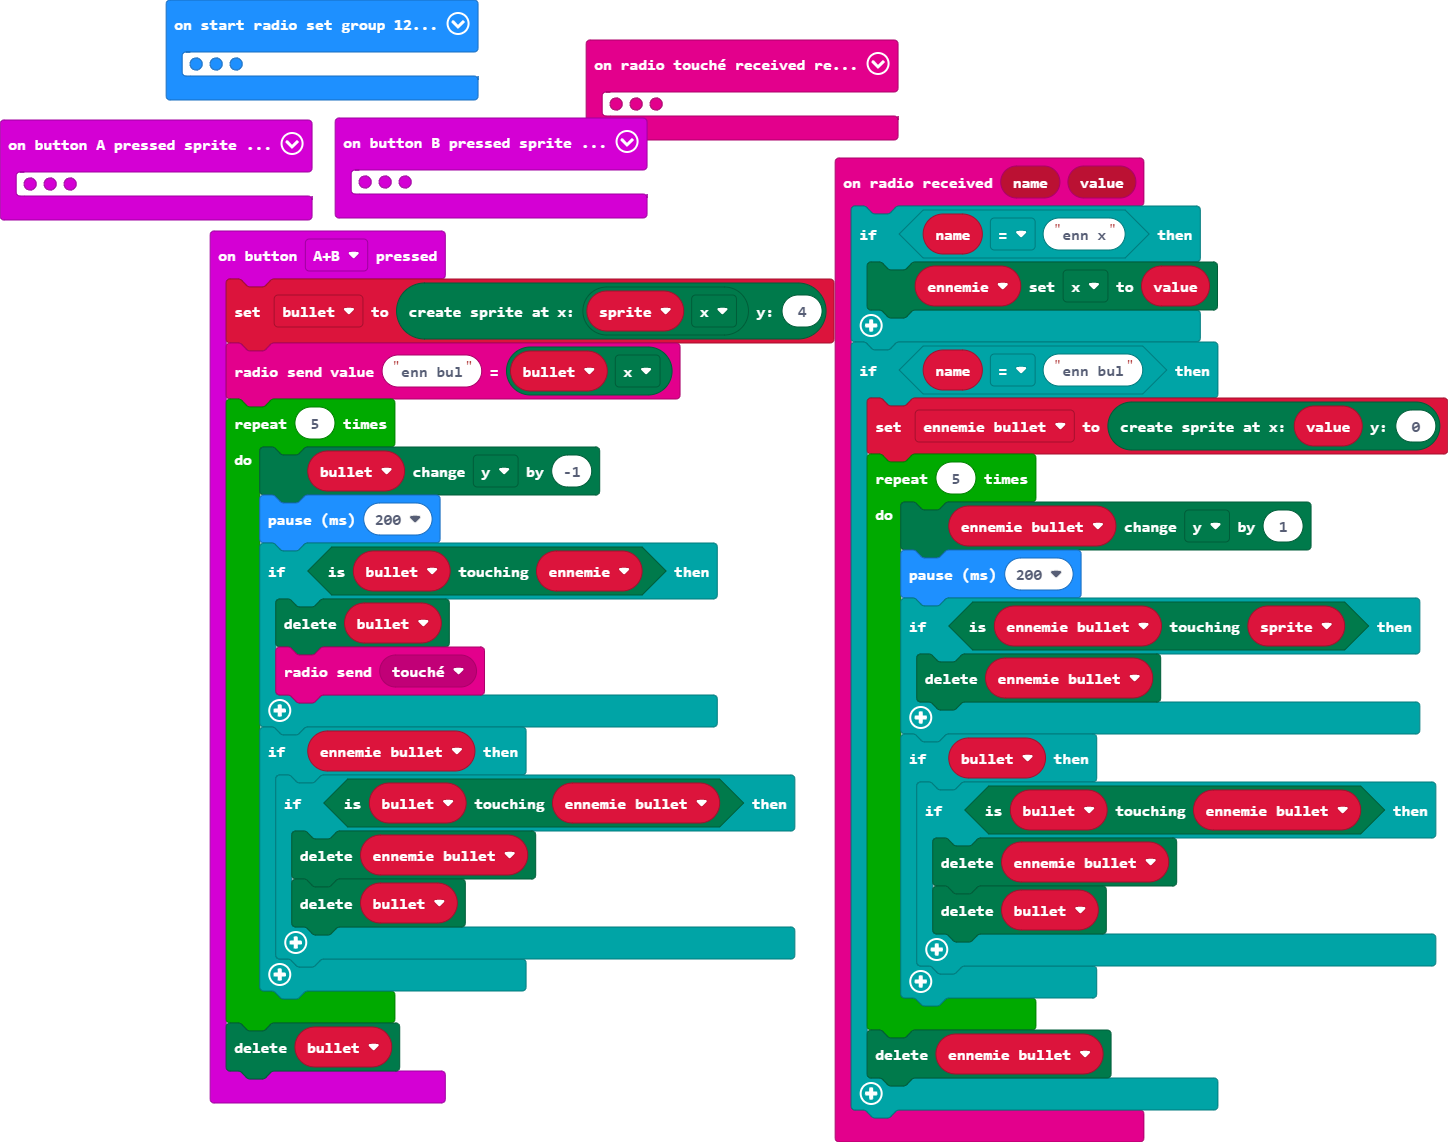
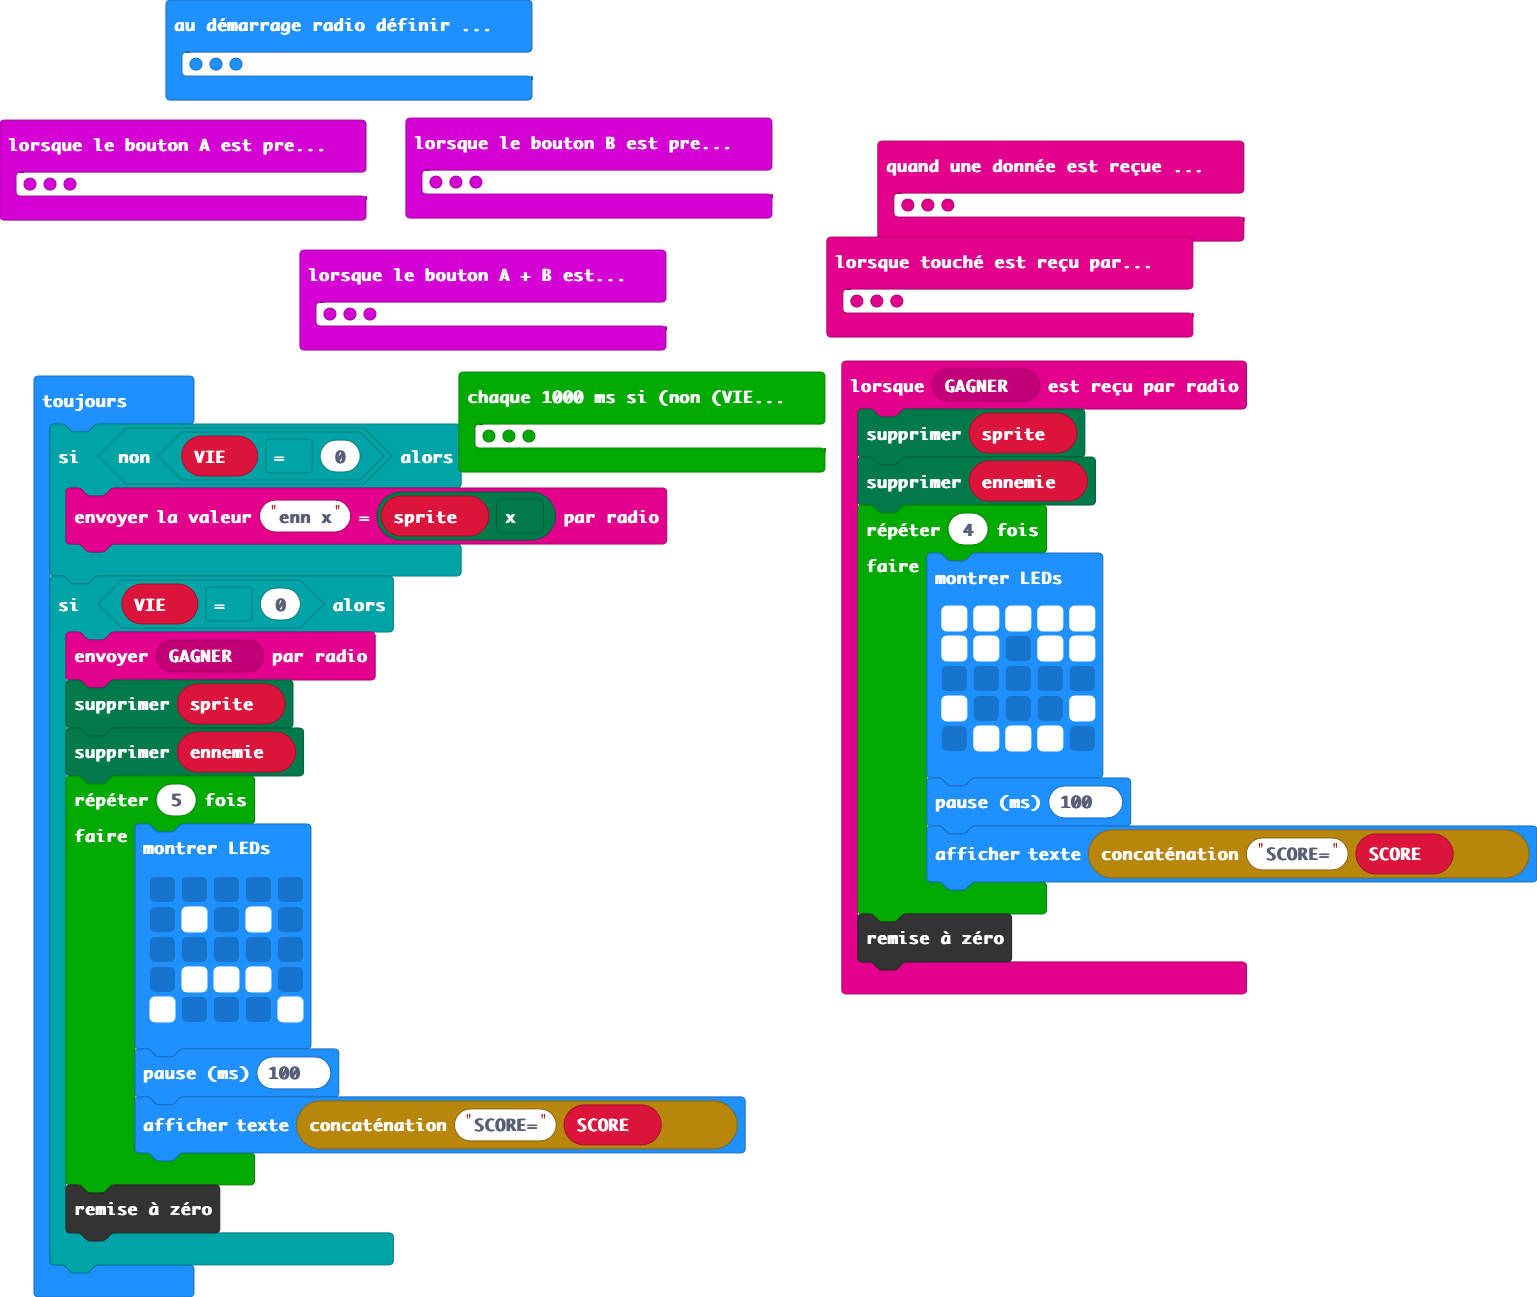
Mise à jour main.blocks, main.ts

diff --git a/main.ts b/main.ts
@@ -1,36 +1,19 @@
 enum RadioMessage {
     message1 = 49434,
-    touché = 2826
+    touché = 2826,
+    GAGNER = 52909
 }
 input.onButtonPressed(Button.A, function () {
-    sprite.change(LedSpriteProperty.X, -1)
-    radio.sendValue("enn x", sprite.get(LedSpriteProperty.X))
+    if (!(VIE == 0)) {
+        sprite.change(LedSpriteProperty.X, -1)
+        radio.sendValue("enn x", sprite.get(LedSpriteProperty.X))
+    }
 })
 input.onButtonPressed(Button.B, function () {
-    sprite.change(LedSpriteProperty.X, 1)
-    radio.sendValue("enn x", sprite.get(LedSpriteProperty.X))
-})
-radio.onReceivedMessage(RadioMessage.touché, function () {
-    game.removeLife(1)
-})
-input.onButtonPressed(Button.AB, function () {
-    bullet = game.createSprite(sprite.get(LedSpriteProperty.X), 4)
-    radio.sendValue("enn bul", bullet.get(LedSpriteProperty.X))
-    for (let index = 0; index < 5; index++) {
-        bullet.change(LedSpriteProperty.Y, -1)
-        basic.pause(200)
-        if (bullet.isTouching(ennemie)) {
-            bullet.delete()
-            radio.sendMessage(RadioMessage.touché)
-        }
-        if (ennemie_bullet) {
-            if (bullet.isTouching(ennemie_bullet)) {
-                ennemie_bullet.delete()
-                bullet.delete()
-            }
-        }
+    if (!(VIE == 0)) {
+        sprite.change(LedSpriteProperty.X, 1)
+        radio.sendValue("enn x", sprite.get(LedSpriteProperty.X))
     }
-    bullet.delete()
 })
 radio.onReceivedValue(function (name, value) {
     if (name == "enn x") {
@@ -54,11 +37,81 @@ radio.onReceivedValue(function (name, value) {
         ennemie_bullet.delete()
     }
 })
-let ennemie_bullet: game.LedSprite = null
+radio.onReceivedMessage(RadioMessage.GAGNER, function () {
+    sprite.delete()
+    ennemie.delete()
+    for (let index = 0; index < 4; index++) {
+        basic.showLeds(`
+            # # # # #
+            # # . # #
+            . . . . .
+            # . . . #
+            . # # # .
+            `)
+        basic.pause(100)
+        basic.showString("SCORE=" + SCORE)
+    }
+    control.reset()
+})
+input.onButtonPressed(Button.AB, function () {
+    if (!(VIE == 0)) {
+        bullet = game.createSprite(sprite.get(LedSpriteProperty.X), 4)
+        radio.sendValue("enn bul", bullet.get(LedSpriteProperty.X))
+        for (let index = 0; index < 5; index++) {
+            bullet.change(LedSpriteProperty.Y, -1)
+            basic.pause(200)
+            if (bullet.isTouching(ennemie)) {
+                bullet.delete()
+                radio.sendMessage(RadioMessage.touché)
+            }
+            if (ennemie_bullet) {
+                if (bullet.isTouching(ennemie_bullet)) {
+                    ennemie_bullet.delete()
+                    bullet.delete()
+                }
+            }
+        }
+        bullet.delete()
+    }
+})
+radio.onReceivedMessage(RadioMessage.touché, function () {
+    VIE += -1
+})
 let bullet: game.LedSprite = null
+let ennemie_bullet: game.LedSprite = null
+let SCORE = 0
+let VIE = 0
 let ennemie: game.LedSprite = null
 let sprite: game.LedSprite = null
 radio.setGroup(125)
 sprite = game.createSprite(2, 4)
 ennemie = game.createSprite(2, 0)
-game.setLife(3)
+VIE = 3
+SCORE = 0
+basic.forever(function () {
+    if (!(VIE == 0)) {
+        radio.sendValue("enn x", sprite.get(LedSpriteProperty.X))
+    }
+    if (VIE == 0) {
+        radio.sendMessage(RadioMessage.GAGNER)
+        sprite.delete()
+        ennemie.delete()
+        for (let index = 0; index < 5; index++) {
+            basic.showLeds(`
+                . . . . .
+                . # . # .
+                . . . . .
+                . # # # .
+                # . . . #
+                `)
+            basic.pause(100)
+            basic.showString("SCORE=" + SCORE)
+        }
+        control.reset()
+    }
+})
+loops.everyInterval(1000, function () {
+    if (!(VIE == 0)) {
+        SCORE += 1
+    }
+})
